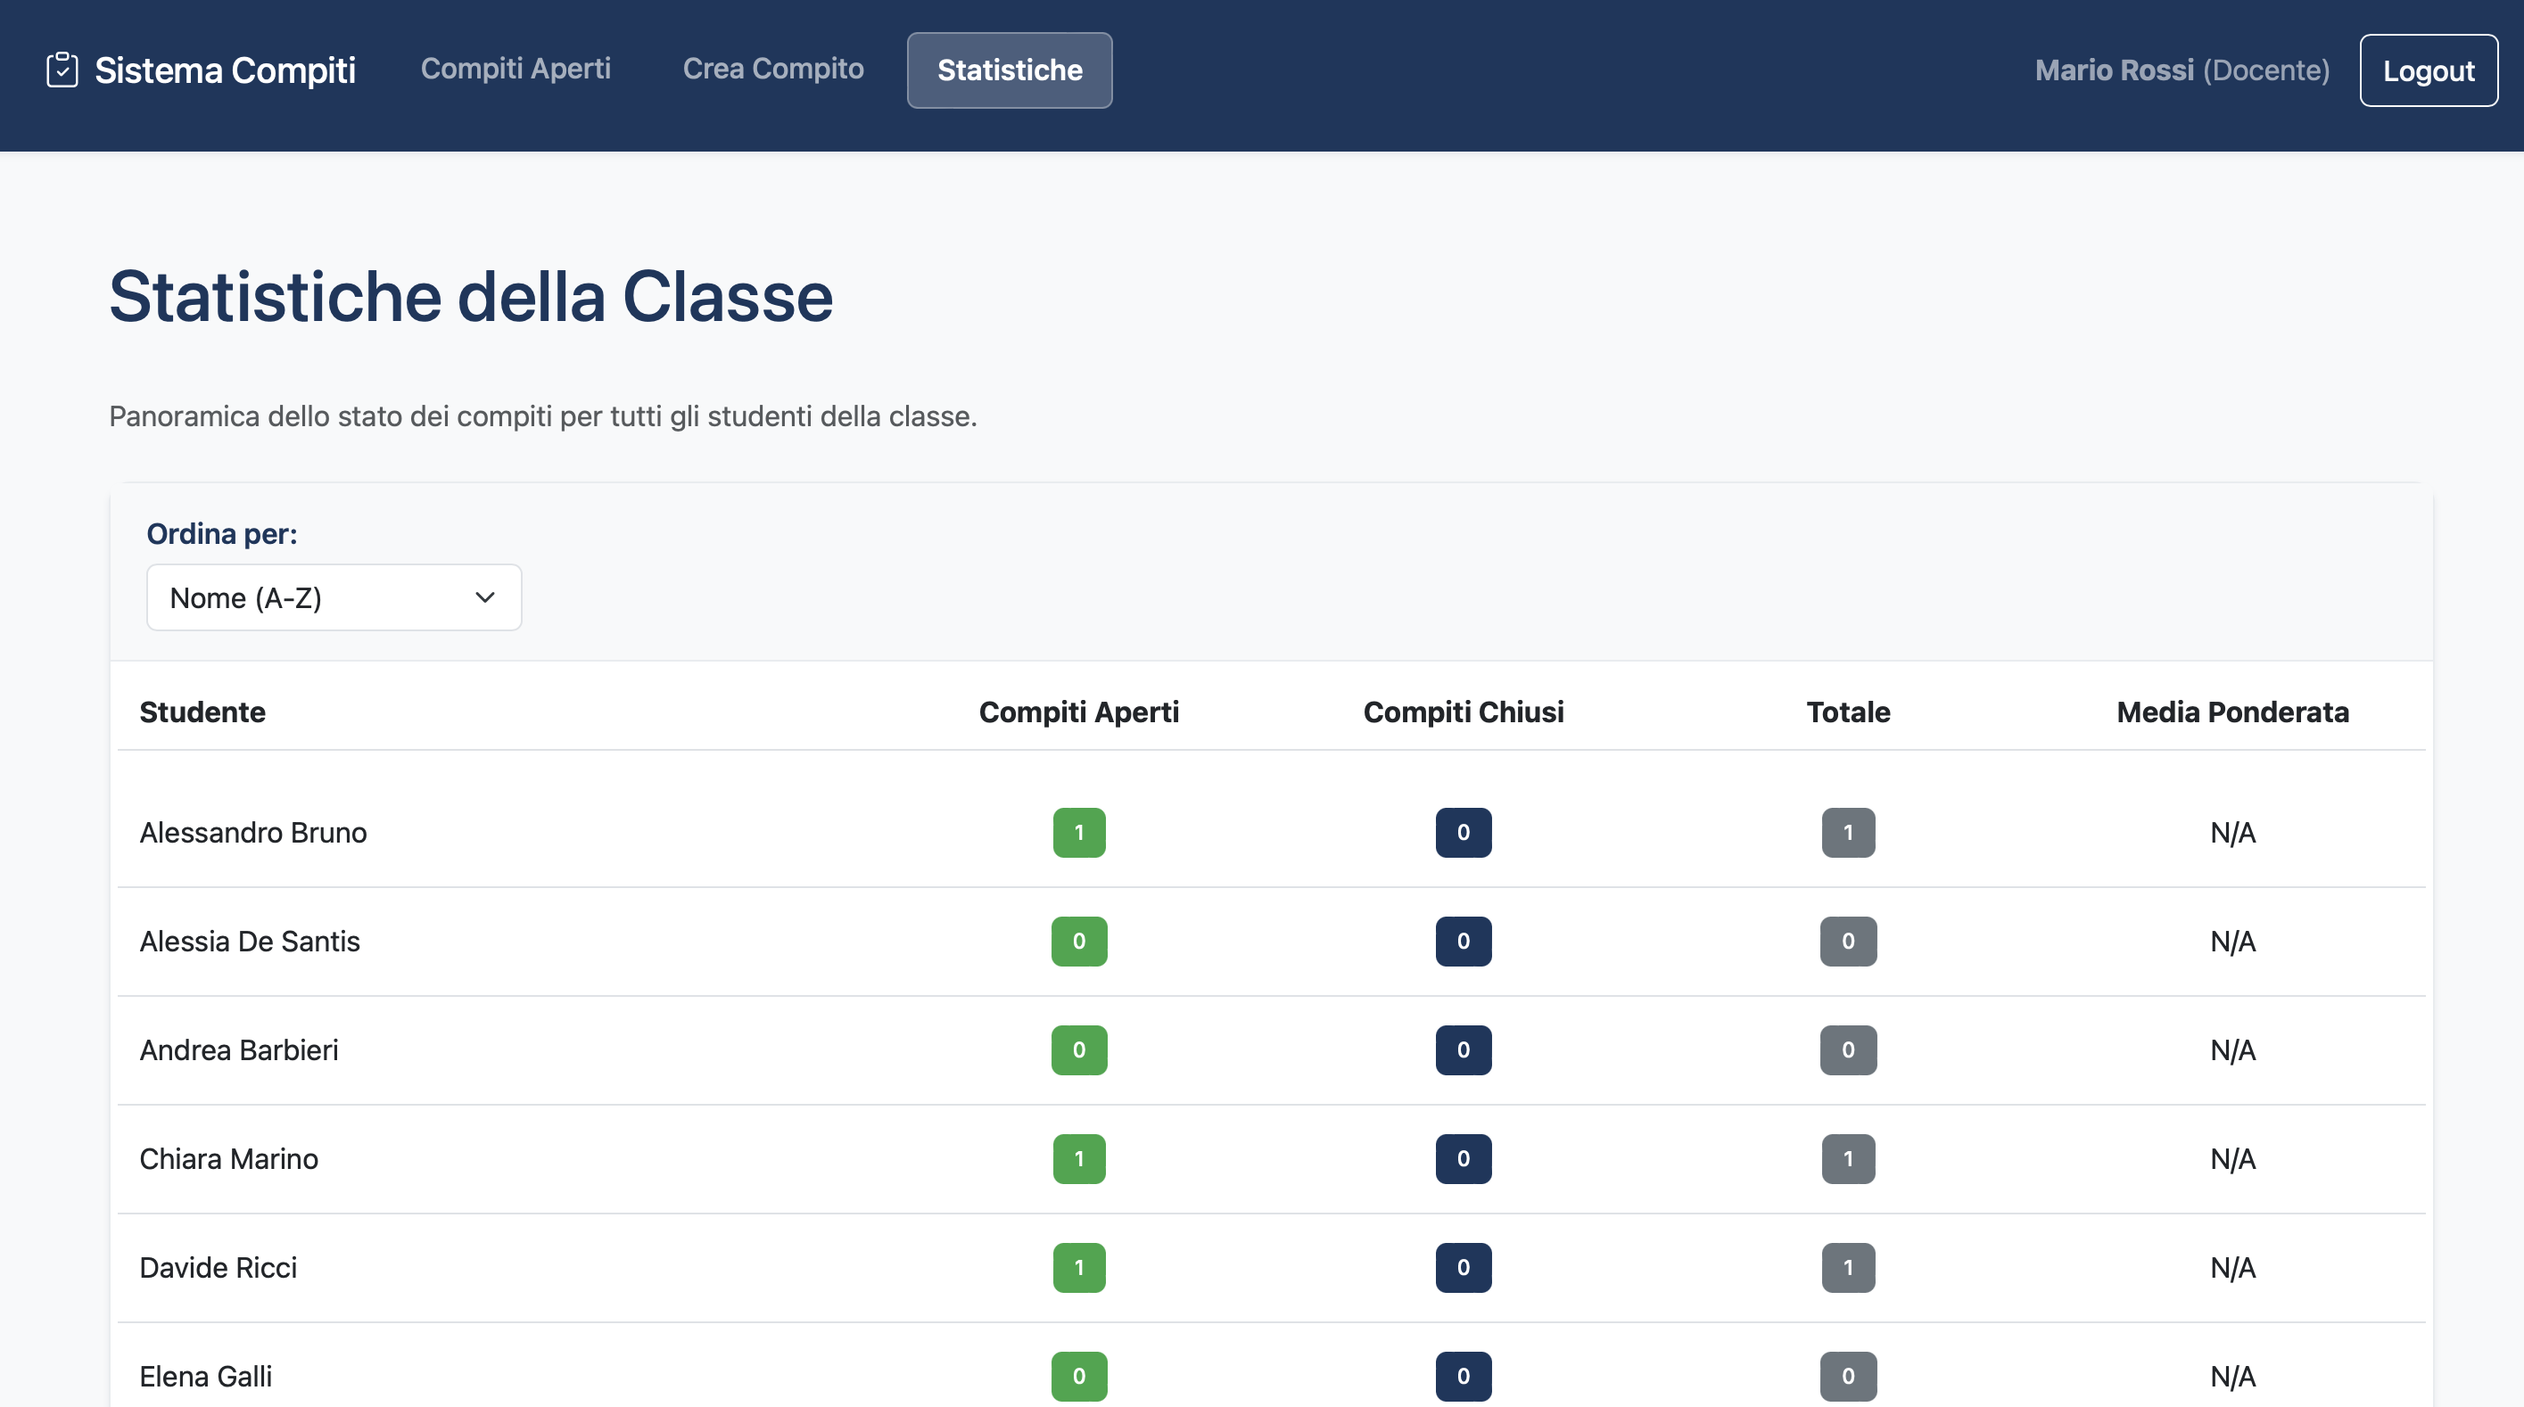
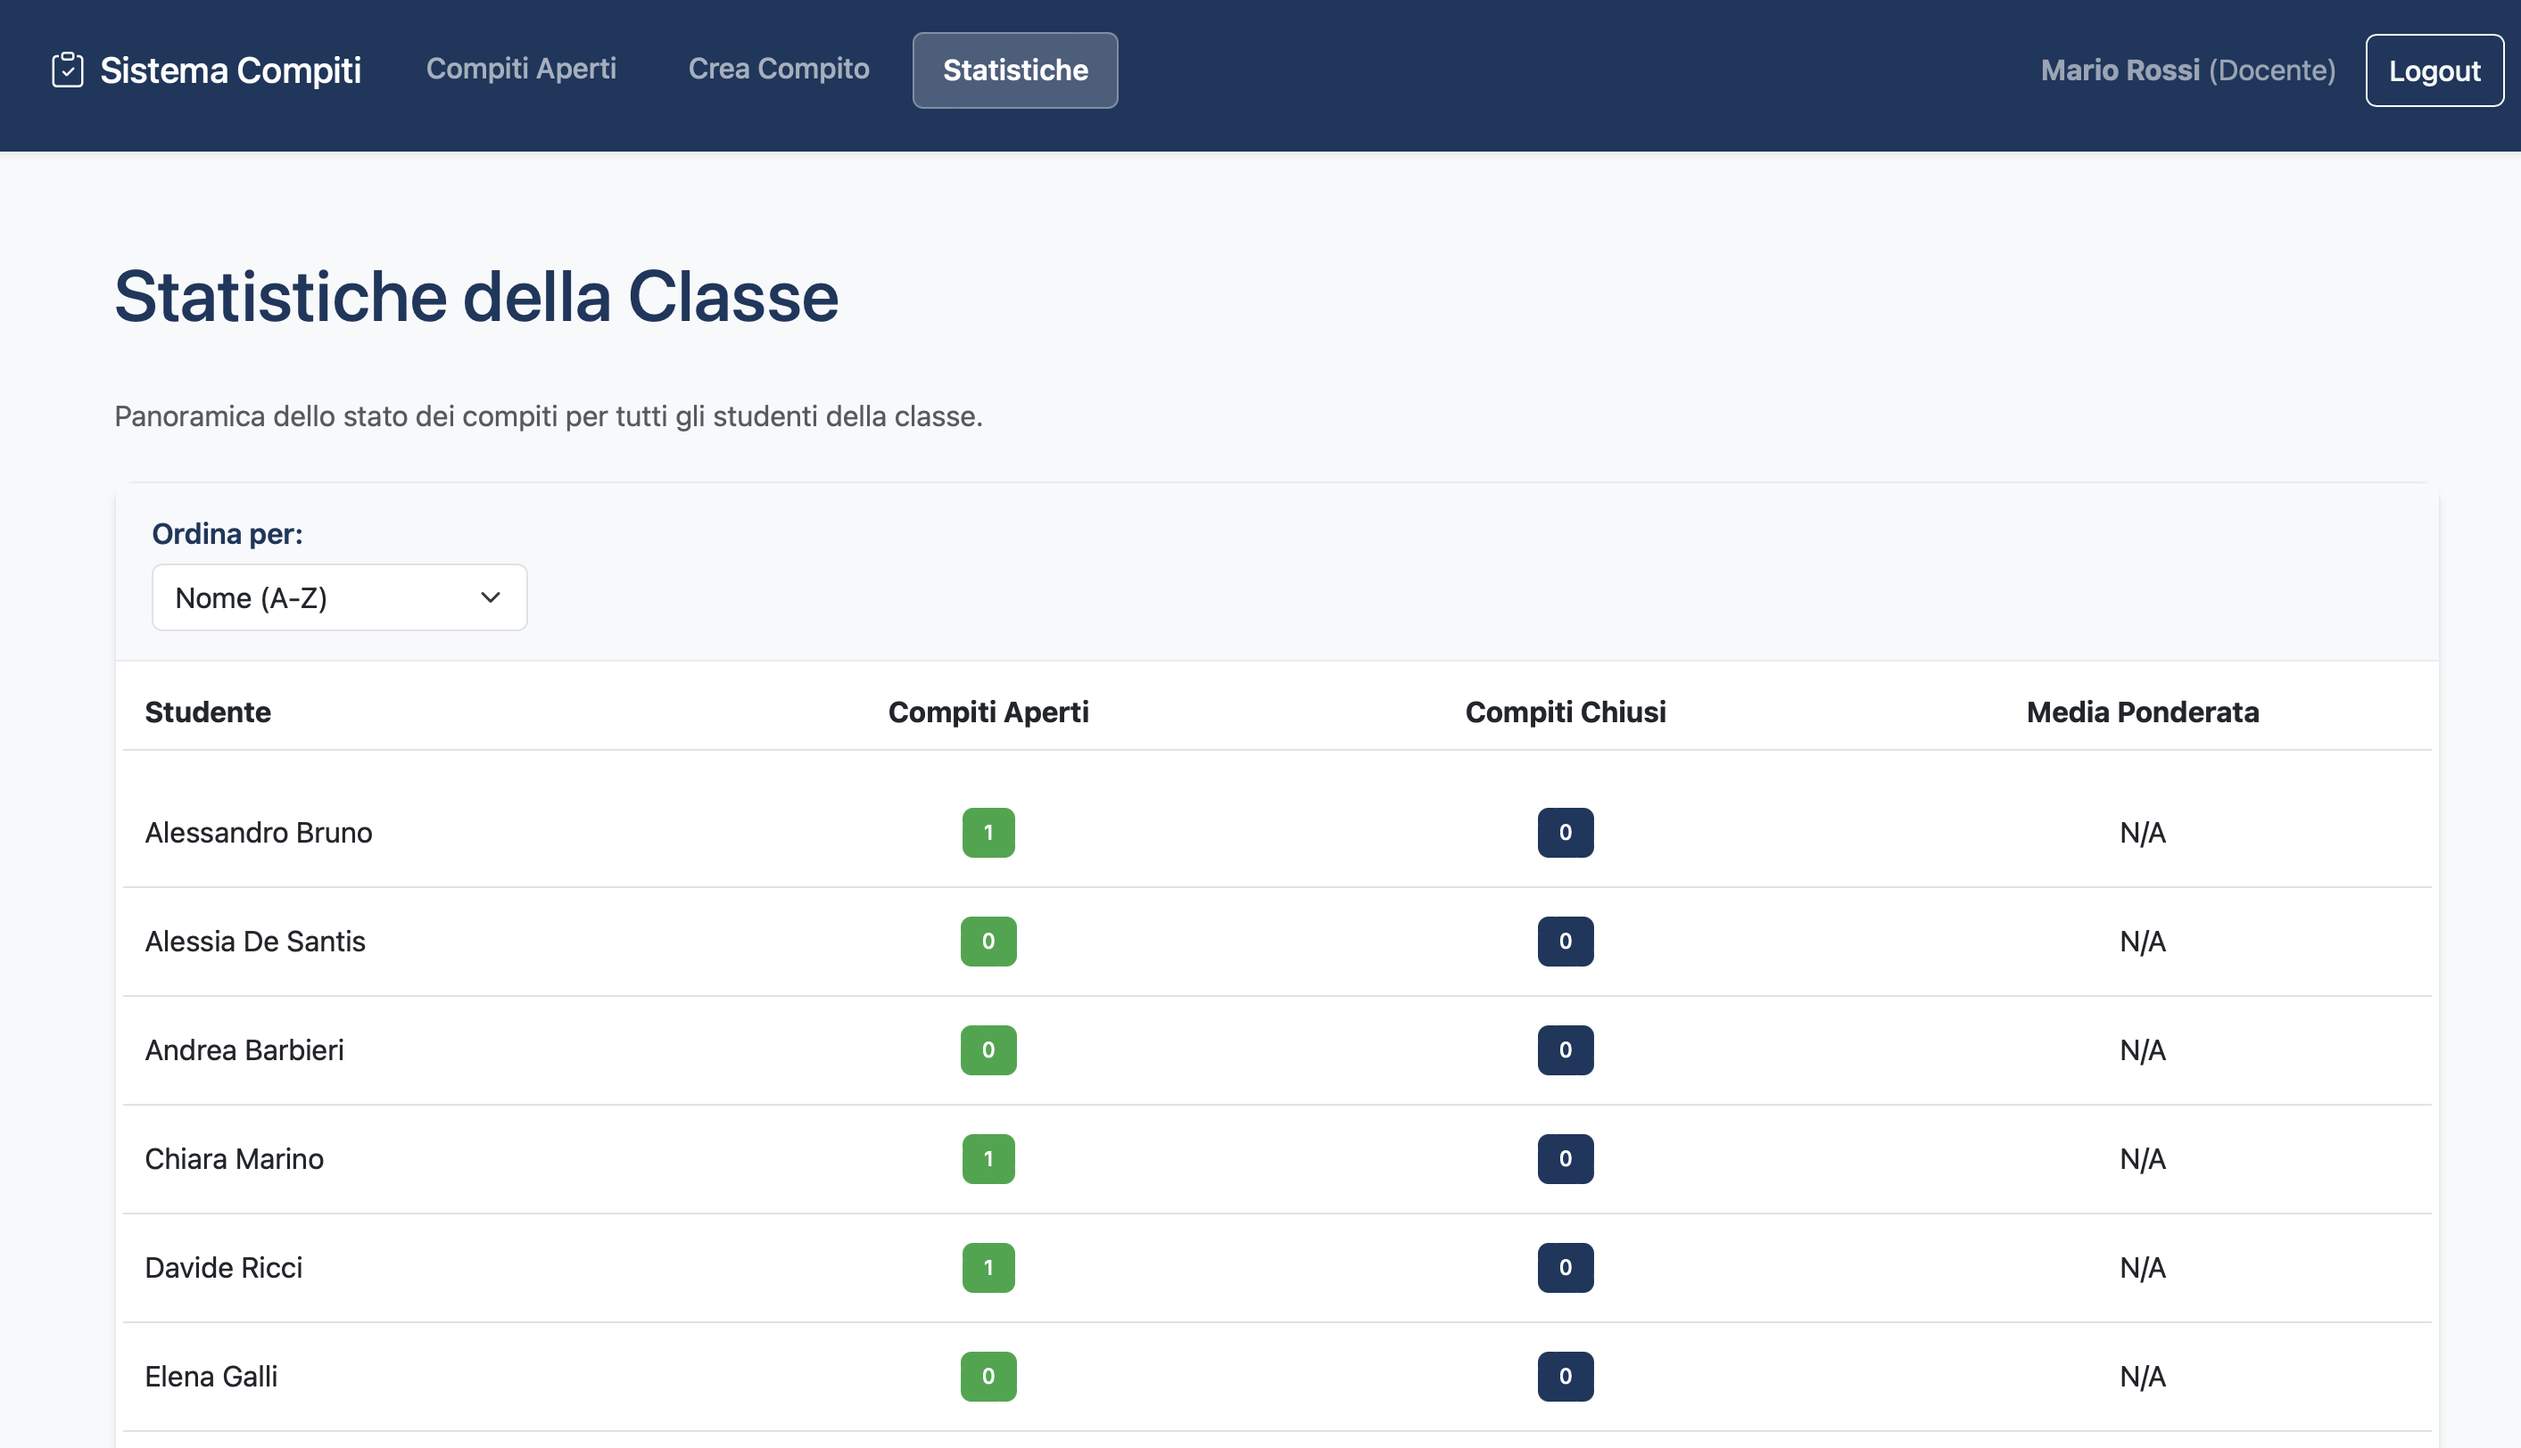
fix(StatsRow, StatsTable): adjust column widths for better layout and improve header labels fix(StudentAnswerSection, TeacherEvaluationSection): update response labels for clarity

diff --git a/client/src/components/StatsRow.jsx b/client/src/components/StatsRow.jsx
@@ -14,28 +14,21 @@ function StatsRow({ student }) {
 
   return (
     <Row className="border-bottom py-3 align-items-center">
-      <Col md={4}>
+      <Col md={3}>
         {student.name}
       </Col>
-      <Col md={2} className="text-center">
+      <Col md={3} className="text-center">
         <Badge bg="success">
           {student.open_assignments || 0}
         </Badge>
       </Col>
-      <Col md={2} className="text-center">
+      <Col md={3} className="text-center">
         <Badge bg="primary">
           {student.closed_assignments || 0}
         </Badge>
       </Col>
-      <Col md={2} className="text-center">
-        <Badge bg="secondary">
-          {student.total_assignments || 0}
-        </Badge>
-      </Col>
-      <Col md={2} className="text-center">
-        <span className={averageClass}>
-          {averageDisplay}
-        </span>
+      <Col md={3} className="text-center">
+        <span className={averageClass}>{averageDisplay}</span>
       </Col>
     </Row>
   );

diff --git a/client/src/components/StatsTable.jsx b/client/src/components/StatsTable.jsx
@@ -16,11 +16,10 @@ function StatsTable({ stats, sortBy, onSortChange }) {
           <>
             {/* Header Row */}
             <Row className="fw-bold border-bottom pb-2 mb-3">
-              <Col md={4}>Studente</Col>
-              <Col md={2} className="text-center">Compiti Aperti</Col>
-              <Col md={2} className="text-center">Compiti Chiusi</Col>
-              <Col md={2} className="text-center">Totale</Col>
-              <Col md={2} className="text-center">Media Ponderata</Col>
+              <Col md={3}>Studente</Col>
+              <Col md={3} className="text-center">Compiti Aperti</Col>
+              <Col md={3} className="text-center">Compiti Chiusi</Col>
+              <Col md={3} className="text-center">Media Ponderata</Col>
             </Row>
 
             {/* Data Rows */}

diff --git a/client/src/components/StudentAnswerSection.jsx b/client/src/components/StudentAnswerSection.jsx
@@ -74,7 +74,7 @@ function StudentAnswerSection({ assignment, onUpdateAssignment }) {
       {/* If answer exists and not editing, show answer with edit button */}
       {assignment.answer && !isEditing && (
         <>
-          <h6 className="fw-bold">La tua risposta:</h6>
+          <h6 className="fw-bold">Risposta del gruppo:</h6>
           <p>{assignment.answer}</p>
           <Button
             variant="primary"

diff --git a/client/src/components/TeacherEvaluationSection.jsx b/client/src/components/TeacherEvaluationSection.jsx
@@ -44,7 +44,7 @@ function TeacherEvaluationSection({ assignment, onRemoveAssignment, onEvaluation
 
   return (
     <>
-      <h6 className="fw-bold">Risposta dello studente:</h6>
+      <h6 className="fw-bold">Risposta al compito:</h6>
       <p>{assignment.answer}</p>
       
       {/* Show loading state only */}
